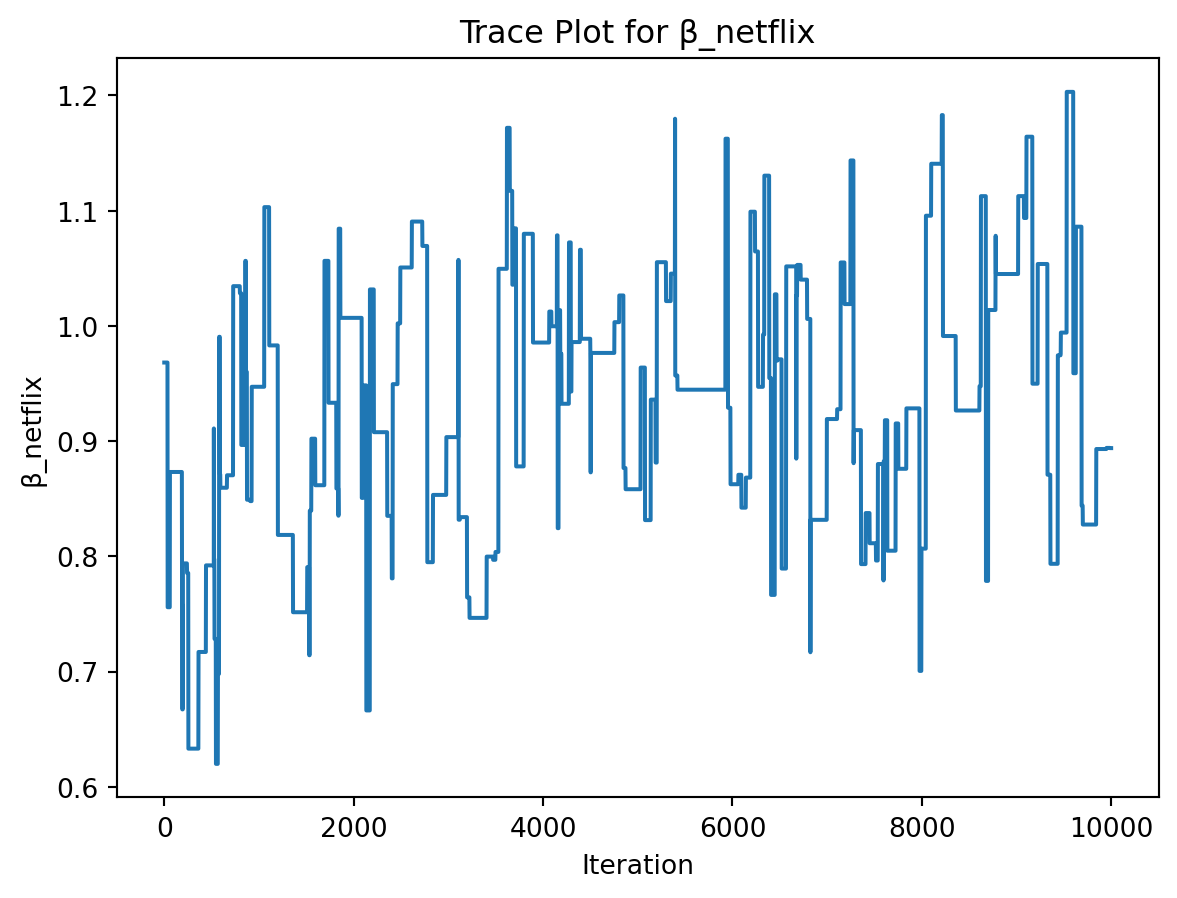
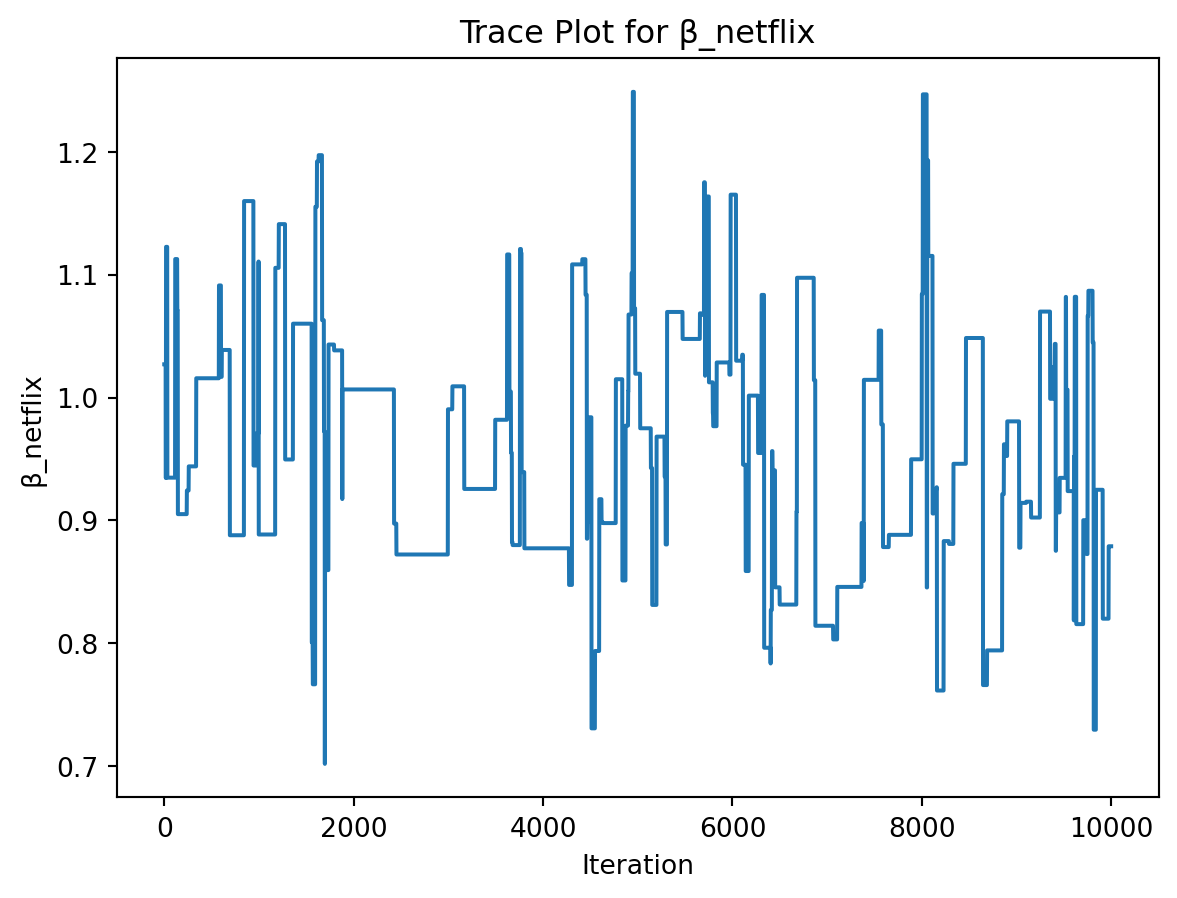
HW3-6

diff --git a/docs/blog/HW1/index.html b/docs/blog/HW1/index.html
@@ -214,7 +214,7 @@ pre > code.sourceCode > span > a:first-child::before { text-decoration: underlin
 <h2 class="anchored" data-anchor-id="data">Data</h2>
 <section id="description" class="level3">
 <h3 class="anchored" data-anchor-id="description">Description</h3>
-<div id="1ae64f3a" class="cell" data-execution_count="1">
+<div id="15046f01" class="cell" data-execution_count="1">
 <div class="sourceCode cell-code" id="cb1"><pre class="sourceCode python code-with-copy"><code class="sourceCode python"><span id="cb1-1"><a href="#cb1-1" aria-hidden="true" tabindex="-1"></a><span class="im">import</span> pandas <span class="im">as</span> pd</span>
 <span id="cb1-2"><a href="#cb1-2" aria-hidden="true" tabindex="-1"></a></span>
 <span id="cb1-3"><a href="#cb1-3" aria-hidden="true" tabindex="-1"></a>df <span class="op">=</span> pd.read_stata(<span class="st">"karlan_list_2007.dta"</span>)</span>
@@ -579,7 +579,7 @@ Variable Definitions
 <section id="balance-test" class="level3">
 <h3 class="anchored" data-anchor-id="balance-test">Balance Test</h3>
 <p>As an ad hoc test of the randomization mechanism, I provide a series of tests that compare aspects of the treatment and control groups to assess whether they are statistically significantly different from one another.</p>
-<div id="4c262358" class="cell" data-execution_count="2">
+<div id="362a9b1d" class="cell" data-execution_count="2">
 <div class="sourceCode cell-code" id="cb3"><pre class="sourceCode python code-with-copy"><code class="sourceCode python"><span id="cb3-1"><a href="#cb3-1" aria-hidden="true" tabindex="-1"></a><span class="im">import</span> pandas <span class="im">as</span> pd</span>
 <span id="cb3-2"><a href="#cb3-2" aria-hidden="true" tabindex="-1"></a><span class="im">import</span> numpy <span class="im">as</span> np</span>
 <span id="cb3-3"><a href="#cb3-3" aria-hidden="true" tabindex="-1"></a><span class="im">from</span> scipy <span class="im">import</span> stats</span>
@@ -640,7 +640,7 @@ Regression: coef = -0.058, p = 0.270</code></pre>
 <section id="charitable-contribution-made" class="level3">
 <h3 class="anchored" data-anchor-id="charitable-contribution-made">Charitable Contribution Made</h3>
 <p>First, I analyze whether matched donations lead to an increased response rate of making a donation.</p>
-<div id="987b3404" class="cell" data-execution_count="3">
+<div id="6338e11d" class="cell" data-execution_count="3">
 <div class="sourceCode cell-code" id="cb5"><pre class="sourceCode python code-with-copy"><code class="sourceCode python"><span id="cb5-1"><a href="#cb5-1" aria-hidden="true" tabindex="-1"></a><span class="im">import</span> matplotlib.pyplot <span class="im">as</span> plt</span>
 <span id="cb5-2"><a href="#cb5-2" aria-hidden="true" tabindex="-1"></a></span>
 <span id="cb5-3"><a href="#cb5-3" aria-hidden="true" tabindex="-1"></a><span class="co"># Calculate donation rates by group</span></span>
@@ -662,7 +662,7 @@ Regression: coef = -0.058, p = 0.270</code></pre>
 </div>
 <p>Above is the proportion of people who donated in control and treatment groups.</p>
 <p>Next, I run a t-test and a bivariate linear regression between the treatment and control groups on the binary outcome of whether any charitable donation was made.</p>
-<div id="2cb8f6dd" class="cell" data-execution_count="4">
+<div id="3bec2cd7" class="cell" data-execution_count="4">
 <div class="sourceCode cell-code" id="cb6"><pre class="sourceCode python code-with-copy"><code class="sourceCode python"><span id="cb6-1"><a href="#cb6-1" aria-hidden="true" tabindex="-1"></a><span class="im">import</span> numpy <span class="im">as</span> np</span>
 <span id="cb6-2"><a href="#cb6-2" aria-hidden="true" tabindex="-1"></a><span class="im">import</span> statsmodels.api <span class="im">as</span> sm</span>
 <span id="cb6-3"><a href="#cb6-3" aria-hidden="true" tabindex="-1"></a><span class="im">from</span> scipy <span class="im">import</span> stats</span>
@@ -694,7 +694,7 @@ Regression: coef = 0.004, p = 0.0019</code></pre>
 <p>Both the t-test and regression show whether the treatment group is more likely to donate than the control group.</p>
 <p>The p-value is small(&lt;0.01), which means the difference is statistically significant: the matching grant treatment increases the likelihood of giving. This suggests that people are more likely to donate when their gift is matched, supporting the idea that matching grants motivate charitable behavior.</p>
 <p>Then, I ran a probit regression where the outcome variable is whether any charitable donation was made and the explanatory variable is assignment to treatment or control.</p>
-<div id="570afa94" class="cell" data-execution_count="5">
+<div id="1e65bf77" class="cell" data-execution_count="5">
 <div class="sourceCode cell-code" id="cb8"><pre class="sourceCode python code-with-copy"><code class="sourceCode python"><span id="cb8-1"><a href="#cb8-1" aria-hidden="true" tabindex="-1"></a>df_clean <span class="op">=</span> df[[<span class="st">'gave'</span>, <span class="st">'treatment'</span>]].dropna()</span>
 <span id="cb8-2"><a href="#cb8-2" aria-hidden="true" tabindex="-1"></a></span>
 <span id="cb8-3"><a href="#cb8-3" aria-hidden="true" tabindex="-1"></a>X <span class="op">=</span> sm.add_constant(df_clean[<span class="st">'treatment'</span>])</span>
@@ -726,7 +726,7 @@ treatment      0.0043      0.001      3.104      0.002       0.002       0.007
 <h3 class="anchored" data-anchor-id="differences-between-match-rates">Differences between Match Rates</h3>
 <p>Next, I assess the effectiveness of different sizes of matched donations on the response rate.</p>
 <p>First, I used a series of t-tests to test whether the size of the match ratio has an effect on whether people donate or not between every two sizes (1:1 vs 2:1, 2:1 vs 3:1, 1:1 vs 3:1).</p>
-<div id="d0fbc2f5" class="cell" data-execution_count="6">
+<div id="5be41849" class="cell" data-execution_count="6">
 <div class="sourceCode cell-code" id="cb10"><pre class="sourceCode python code-with-copy"><code class="sourceCode python"><span id="cb10-1"><a href="#cb10-1" aria-hidden="true" tabindex="-1"></a>df_ratio <span class="op">=</span> df[(df[<span class="st">'treatment'</span>] <span class="op">==</span> <span class="dv">1</span>) <span class="op">&amp;</span> (df[<span class="st">'ratio'</span>].notnull()) <span class="op">&amp;</span> (df[<span class="st">'gave'</span>].notnull())]</span>
 <span id="cb10-2"><a href="#cb10-2" aria-hidden="true" tabindex="-1"></a></span>
 <span id="cb10-3"><a href="#cb10-3" aria-hidden="true" tabindex="-1"></a><span class="co"># 1:1 vs 2:1</span></span>
@@ -752,7 +752,7 @@ treatment      0.0043      0.001      3.104      0.002       0.002       0.007
 <p>These t-tests shows that there is no statistically significant difference in donation rates between the match ratios.</p>
 <p>This supports the authors’ comment that “neither the match thresh- old nor the example amount had a meaningful influence on behavior.”</p>
 <p>Next, I assessed the same issue using a regression. I created the variable <code>ratio2</code>, and <code>ratio3</code>, and then regressed <code>gave</code> on them.</p>
-<div id="d9f2f4a0" class="cell" data-execution_count="7">
+<div id="af9e940d" class="cell" data-execution_count="7">
 <div class="sourceCode cell-code" id="cb12"><pre class="sourceCode python code-with-copy"><code class="sourceCode python"><span id="cb12-1"><a href="#cb12-1" aria-hidden="true" tabindex="-1"></a>df_ratio <span class="op">=</span> df[(df[<span class="st">'treatment'</span>] <span class="op">==</span> <span class="dv">1</span>) <span class="op">&amp;</span> (df[<span class="st">'ratio'</span>].isin([<span class="dv">1</span>,<span class="dv">2</span>,<span class="dv">3</span>])) <span class="op">&amp;</span> (df[<span class="st">'gave'</span>].notnull())]</span>
 <span id="cb12-2"><a href="#cb12-2" aria-hidden="true" tabindex="-1"></a></span>
 <span id="cb12-3"><a href="#cb12-3" aria-hidden="true" tabindex="-1"></a>df_ratio[<span class="st">'ratio2'</span>] <span class="op">=</span> (df_ratio[<span class="st">'ratio'</span>] <span class="op">==</span> <span class="dv">2</span>).astype(<span class="bu">int</span>)</span>
@@ -768,7 +768,7 @@ Dep. Variable:                   gave   R-squared:                       0.000
 Model:                            OLS   Adj. R-squared:                 -0.000
 Method:                 Least Squares   F-statistic:                    0.6454
 Date:                Sun, 25 May 2025   Prob (F-statistic):              0.524
-Time:                        08:13:51   Log-Likelihood:                 16688.
+Time:                        08:20:14   Log-Likelihood:                 16688.
 No. Observations:               33396   AIC:                        -3.337e+04
 Df Residuals:                   33393   BIC:                        -3.334e+04
 Df Model:                           2                                         
@@ -790,13 +790,13 @@ Notes:
 [1] Standard Errors assume that the covariance matrix of the errors is correctly specified.</code></pre>
 </div>
 <div class="cell-output cell-output-stderr">
-<pre><code>/var/folders/4l/zkt81q5j4xlbn6fjv2v8jj880000gn/T/ipykernel_58230/1592154894.py:3: SettingWithCopyWarning: 
+<pre><code>/var/folders/4l/zkt81q5j4xlbn6fjv2v8jj880000gn/T/ipykernel_59688/1592154894.py:3: SettingWithCopyWarning: 
 A value is trying to be set on a copy of a slice from a DataFrame.
 Try using .loc[row_indexer,col_indexer] = value instead
 
 See the caveats in the documentation: https://pandas.pydata.org/pandas-docs/stable/user_guide/indexing.html#returning-a-view-versus-a-copy
   df_ratio['ratio2'] = (df_ratio['ratio'] == 2).astype(int)
-/var/folders/4l/zkt81q5j4xlbn6fjv2v8jj880000gn/T/ipykernel_58230/1592154894.py:4: SettingWithCopyWarning: 
+/var/folders/4l/zkt81q5j4xlbn6fjv2v8jj880000gn/T/ipykernel_59688/1592154894.py:4: SettingWithCopyWarning: 
 A value is trying to be set on a copy of a slice from a DataFrame.
 Try using .loc[row_indexer,col_indexer] = value instead
 
@@ -807,7 +807,7 @@ See the caveats in the documentation: https://pandas.pydata.org/pandas-docs/stab
 <p>The coefficients on the dummy variables for match ratios show the difference in donation probability compared to the 1:1 match (the omitted group). The coefficients are small and not statistically significant, which means increasing the match ratio does not meaningfully affect the likelihood of donating.</p>
 <p>This matches the earlier t-test results and supports the paper’s finding.</p>
 <p>I also calculated the response rate difference between the 1:1 and 2:1 match ratios and the 2:1 and 3:1 ratios in two ways – directly from the data, and by computing the differences in the fitted coefficients of the previous regression.</p>
-<div id="f66e734e" class="cell" data-execution_count="8">
+<div id="71c1b358" class="cell" data-execution_count="8">
 <div class="sourceCode cell-code" id="cb15"><pre class="sourceCode python code-with-copy"><code class="sourceCode python"><span id="cb15-1"><a href="#cb15-1" aria-hidden="true" tabindex="-1"></a>gave_1to1 <span class="op">=</span> df_ratio[df_ratio[<span class="st">'ratio'</span>] <span class="op">==</span> <span class="dv">1</span>][<span class="st">'gave'</span>]</span>
 <span id="cb15-2"><a href="#cb15-2" aria-hidden="true" tabindex="-1"></a>gave_2to1 <span class="op">=</span> df_ratio[df_ratio[<span class="st">'ratio'</span>] <span class="op">==</span> <span class="dv">2</span>][<span class="st">'gave'</span>]</span>
 <span id="cb15-3"><a href="#cb15-3" aria-hidden="true" tabindex="-1"></a>gave_3to1 <span class="op">=</span> df_ratio[df_ratio[<span class="st">'ratio'</span>] <span class="op">==</span> <span class="dv">3</span>][<span class="st">'gave'</span>]</span>
@@ -840,7 +840,7 @@ From regression: Response rate difference (3:1 - 2:1): 0.0001</code></pre>
 <h3 class="anchored" data-anchor-id="size-of-charitable-contribution">Size of Charitable Contribution</h3>
 <p>In this subsection, I analyze the effect of the size of matched donation on the size of the charitable contribution.</p>
 <p>I first examined whether the treatment group gives a different average donation amount than the control group by t-test.</p>
-<div id="79cde860" class="cell" data-execution_count="9">
+<div id="569cab3a" class="cell" data-execution_count="9">
 <div class="sourceCode cell-code" id="cb17"><pre class="sourceCode python code-with-copy"><code class="sourceCode python"><span id="cb17-1"><a href="#cb17-1" aria-hidden="true" tabindex="-1"></a>df_amt <span class="op">=</span> df[[<span class="st">'amount'</span>, <span class="st">'treatment'</span>]].dropna()</span>
 <span id="cb17-2"><a href="#cb17-2" aria-hidden="true" tabindex="-1"></a></span>
 <span id="cb17-3"><a href="#cb17-3" aria-hidden="true" tabindex="-1"></a>amount_treat <span class="op">=</span> df_amt[df_amt[<span class="st">'treatment'</span>] <span class="op">==</span> <span class="dv">1</span>][<span class="st">'amount'</span>]</span>
@@ -853,7 +853,7 @@ From regression: Response rate difference (3:1 - 2:1): 0.0001</code></pre>
 </div>
 <p>The p-value is large (&gt;0.05), it means there is no statistically significant difference in average donation amount between groups. This suggests that while matching grants may increase the likelihood of giving, they do not necessarily increase the average amount donated.</p>
 <p>Then, I limited the data to just people who made a donation and repeat the previous analysis. This regression allows me to analyze how much respondents donate conditional on donating some positive amount.</p>
-<div id="6f2d1faf" class="cell" data-execution_count="10">
+<div id="68f0a215" class="cell" data-execution_count="10">
 <div class="sourceCode cell-code" id="cb19"><pre class="sourceCode python code-with-copy"><code class="sourceCode python"><span id="cb19-1"><a href="#cb19-1" aria-hidden="true" tabindex="-1"></a>df_positive <span class="op">=</span> df[(df[<span class="st">'gave'</span>] <span class="op">==</span> <span class="dv">1</span>) <span class="op">&amp;</span> (df[<span class="st">'treatment'</span>].notnull())].copy()</span>
 <span id="cb19-2"><a href="#cb19-2" aria-hidden="true" tabindex="-1"></a></span>
 <span id="cb19-3"><a href="#cb19-3" aria-hidden="true" tabindex="-1"></a>X <span class="op">=</span> sm.add_constant(df_positive[<span class="st">'treatment'</span>])</span>
@@ -867,7 +867,7 @@ Dep. Variable:                 amount   R-squared:                       0.000
 Model:                            OLS   Adj. R-squared:                 -0.001
 Method:                 Least Squares   F-statistic:                    0.3374
 Date:                Sun, 25 May 2025   Prob (F-statistic):              0.561
-Time:                        08:13:51   Log-Likelihood:                -5326.8
+Time:                        08:20:14   Log-Likelihood:                -5326.8
 No. Observations:                1034   AIC:                         1.066e+04
 Df Residuals:                    1032   BIC:                         1.067e+04
 Df Model:                           1                                         
@@ -891,7 +891,7 @@ Notes:
 <p>This analysis examines whether, among those who donated, the average donation amount differs between treatment and control groups.</p>
 <p>The treatment coefficient is not statistically significant, which suggests that matching grants do not increase the average donation size among donors—only the likelihood of giving. Because treatment was randomly assigned, the coefficient can be interpreted causally: it estimates the effect of being offered a match on the average donation amount, conditional on donating.</p>
 <p>Here I make two plots to show the distribution of the donation amounts for people who donated in treatment and control groups. This also support the conclusion that matching grants do not increase the average donation size among donors—only the likelihood of giving.</p>
-<div id="cedbce3b" class="cell" data-execution_count="11">
+<div id="555b2103" class="cell" data-execution_count="11">
 <div class="sourceCode cell-code" id="cb21"><pre class="sourceCode python code-with-copy"><code class="sourceCode python"><span id="cb21-1"><a href="#cb21-1" aria-hidden="true" tabindex="-1"></a>df_positive <span class="op">=</span> df[(df[<span class="st">'amount'</span>] <span class="op">&gt;</span> <span class="dv">0</span>) <span class="op">&amp;</span> (df[<span class="st">'treatment'</span>].notnull())]</span>
 <span id="cb21-2"><a href="#cb21-2" aria-hidden="true" tabindex="-1"></a></span>
 <span id="cb21-3"><a href="#cb21-3" aria-hidden="true" tabindex="-1"></a>amount_treat <span class="op">=</span> df_positive[df_positive[<span class="st">'treatment'</span>] <span class="op">==</span> <span class="dv">1</span>][<span class="st">'amount'</span>]</span>
@@ -937,7 +937,7 @@ Notes:
 <section id="law-of-large-numbers" class="level3">
 <h3 class="anchored" data-anchor-id="law-of-large-numbers">Law of Large Numbers</h3>
 <p>To illustrate Law of Large Numbers, I simulated 100,00 draws from the control distribution and 10,000 draws from the treatment distribution. I then calculated a vector of 10,000 differences, and then plot the cumulative average of that vector of differences.</p>
-<div id="efa1bcba" class="cell" data-execution_count="12">
+<div id="b74771ce" class="cell" data-execution_count="12">
 <div class="sourceCode cell-code" id="cb22"><pre class="sourceCode python code-with-copy"><code class="sourceCode python"><span id="cb22-1"><a href="#cb22-1" aria-hidden="true" tabindex="-1"></a>np.random.seed(<span class="dv">42</span>)</span>
 <span id="cb22-2"><a href="#cb22-2" aria-hidden="true" tabindex="-1"></a></span>
 <span id="cb22-3"><a href="#cb22-3" aria-hidden="true" tabindex="-1"></a></span>
@@ -976,7 +976,7 @@ Notes:
 <section id="central-limit-theorem" class="level3">
 <h3 class="anchored" data-anchor-id="central-limit-theorem">Central Limit Theorem</h3>
 <p>To illustrate Central Limit Theorem, I made 4 histograms at sample sizes 50, 200, 500, and 1000. For each sample size, e.g.&nbsp;50, I took 50 draws from each of the control and treatment distributions, and calculate the average difference between those draws. Then repeat that process 999 more times so that I had 1000 averages.</p>
-<div id="117cdd49" class="cell" data-execution_count="13">
+<div id="66689936" class="cell" data-execution_count="13">
 <div class="sourceCode cell-code" id="cb23"><pre class="sourceCode python code-with-copy"><code class="sourceCode python"><span id="cb23-1"><a href="#cb23-1" aria-hidden="true" tabindex="-1"></a>np.random.seed(<span class="dv">42</span>)</span>
 <span id="cb23-2"><a href="#cb23-2" aria-hidden="true" tabindex="-1"></a></span>
 <span id="cb23-3"><a href="#cb23-3" aria-hidden="true" tabindex="-1"></a>p_control <span class="op">=</span> <span class="fl">0.018</span></span>

diff --git a/docs/blog/HW2/index.html b/docs/blog/HW2/index.html
@@ -244,7 +244,7 @@ window.Quarto = {
 <p><em>todo: Read in data.</em></p>
 <p><em>todo: Compare histograms and means of number of patents by customer status. What do you observe?</em></p>
 <p>We first read in the data and draw histograms for number of patents by customer status. We observed the distribution is more right skewed, and customer of Blueprinty seem to have more patents than non-customers in average.</p>
-<div id="8c48a41d" class="cell" data-execution_count="1">
+<div id="0582a8ba" class="cell" data-execution_count="1">
 <div class="sourceCode cell-code" id="cb1"><pre class="sourceCode python code-with-copy"><code class="sourceCode python"><span id="cb1-1"><a href="#cb1-1" aria-hidden="true" tabindex="-1"></a><span class="im">import</span> pandas <span class="im">as</span> pd</span>
 <span id="cb1-2"><a href="#cb1-2" aria-hidden="true" tabindex="-1"></a><span class="im">import</span> matplotlib.pyplot <span class="im">as</span> plt</span>
 <span id="cb1-3"><a href="#cb1-3" aria-hidden="true" tabindex="-1"></a></span>
@@ -285,7 +285,7 @@ Name: patents, dtype: float64</code></pre>
 </div>
 <p>Blueprinty customers are not selected at random. It may be important to account for systematic differences in the age and regional location of customers vs non-customers.</p>
 <p>Thus, we also look into the region and age distribution by customer status.</p>
-<div id="41b88ddb" class="cell" data-execution_count="2">
+<div id="fc408fd3" class="cell" data-execution_count="2">
 <div class="sourceCode cell-code" id="cb3"><pre class="sourceCode python code-with-copy"><code class="sourceCode python"><span id="cb3-1"><a href="#cb3-1" aria-hidden="true" tabindex="-1"></a><span class="im">import</span> seaborn <span class="im">as</span> sns</span>
 <span id="cb3-2"><a href="#cb3-2" aria-hidden="true" tabindex="-1"></a><span class="im">import</span> matplotlib.pyplot <span class="im">as</span> plt</span>
 <span id="cb3-3"><a href="#cb3-3" aria-hidden="true" tabindex="-1"></a></span>
@@ -358,7 +358,7 @@ iscustomer
 <p><span class="math display">\[
 P(Y_i = y_i) = \frac{e^{-\lambda} \lambda^{y_i}}{y_i!}
 \]</span></p>
-<div id="3ffcc65a" class="cell" data-execution_count="3">
+<div id="67fcb616" class="cell" data-execution_count="3">
 <div class="sourceCode cell-code" id="cb6"><pre class="sourceCode python code-with-copy"><code class="sourceCode python"><span id="cb6-1"><a href="#cb6-1" aria-hidden="true" tabindex="-1"></a><span class="im">import</span> numpy <span class="im">as</span> np</span>
 <span id="cb6-2"><a href="#cb6-2" aria-hidden="true" tabindex="-1"></a><span class="im">from</span> scipy.special <span class="im">import</span> gammaln  <span class="co"># For log(y!)</span></span>
 <span id="cb6-3"><a href="#cb6-3" aria-hidden="true" tabindex="-1"></a></span>
@@ -368,7 +368,7 @@ P(Y_i = y_i) = \frac{e^{-\lambda} \lambda^{y_i}}{y_i!}
 <span id="cb6-7"><a href="#cb6-7" aria-hidden="true" tabindex="-1"></a>    <span class="cf">return</span> np.<span class="bu">sum</span>(<span class="op">-</span>lmbda <span class="op">+</span> Y <span class="op">*</span> np.log(lmbda) <span class="op">-</span> gammaln(Y <span class="op">+</span> <span class="dv">1</span>))</span></code><button title="Copy to Clipboard" class="code-copy-button"><i class="bi"></i></button></pre></div>
 </div>
 <p>Next, we use the function to plot lambda on the horizontal axis and the likelihood (or log-likelihood) on the vertical axis for a range of lambdas.</p>
-<div id="7f8d7441" class="cell" data-execution_count="4">
+<div id="89962fd4" class="cell" data-execution_count="4">
 <div class="sourceCode cell-code" id="cb7"><pre class="sourceCode python code-with-copy"><code class="sourceCode python"><span id="cb7-1"><a href="#cb7-1" aria-hidden="true" tabindex="-1"></a>Y <span class="op">=</span> df[<span class="st">'patents'</span>]</span>
 <span id="cb7-2"><a href="#cb7-2" aria-hidden="true" tabindex="-1"></a></span>
 <span id="cb7-3"><a href="#cb7-3" aria-hidden="true" tabindex="-1"></a><span class="co"># Define a range of lambda values</span></span>
@@ -413,7 +413,7 @@ P(Y_i = y_i) = \frac{e^{-\lambda} \lambda^{y_i}}{y_i!}
 \]</span></p>
 <p>This result <strong>feels right</strong>, because the <strong>mean of a Poisson distribution is <span class="math inline">\(\lambda\)</span></strong>, and we’re estimating it using the <strong>sample mean</strong>.</p>
 <p>Now we find the MLE by optimizing my likelihood function.</p>
-<div id="1b919636" class="cell" data-execution_count="5">
+<div id="51dab95a" class="cell" data-execution_count="5">
 <div class="sourceCode cell-code" id="cb8"><pre class="sourceCode python code-with-copy"><code class="sourceCode python"><span id="cb8-1"><a href="#cb8-1" aria-hidden="true" tabindex="-1"></a><span class="im">from</span> scipy.optimize <span class="im">import</span> minimize_scalar</span>
 <span id="cb8-2"><a href="#cb8-2" aria-hidden="true" tabindex="-1"></a></span>
 <span id="cb8-3"><a href="#cb8-3" aria-hidden="true" tabindex="-1"></a><span class="co"># Objective function: negative log-likelihood (for minimization)</span></span>
@@ -434,7 +434,7 @@ P(Y_i = y_i) = \frac{e^{-\lambda} \lambda^{y_i}}{y_i!}
 <h3 class="anchored" data-anchor-id="estimation-of-poisson-regression-model">Estimation of Poisson Regression Model</h3>
 <p>Next, we extend our simple Poisson model to a Poisson Regression Model such that <span class="math inline">\(Y_i = \text{Poisson}(\lambda_i)\)</span> where <span class="math inline">\(\lambda_i = \exp(X_i'\beta)\)</span>. The interpretation is that the success rate of patent awards is not constant across all firms (<span class="math inline">\(\lambda\)</span>) but rather is a function of firm characteristics <span class="math inline">\(X_i\)</span>. Specifically, we will use the covariates age, age squared, region, and whether the firm is a customer of Blueprinty.</p>
 <p>Now we create a new log-likelihood function for Poisson model with an additional argument to take in a covariate matrix X. We will use it to find the MLE vector and the Hessian of the Poisson model with covariates. Then we will use the Hessian to find standard errors of the beta parameter estimates and present a table of coefficients and standard errors.</p>
-<div id="4d4c9e44" class="cell" data-execution_count="6">
+<div id="4fe9b00d" class="cell" data-execution_count="6">
 <div class="sourceCode cell-code" id="cb10"><pre class="sourceCode python code-with-copy"><code class="sourceCode python"><span id="cb10-1"><a href="#cb10-1" aria-hidden="true" tabindex="-1"></a><span class="im">from</span> scipy.special <span class="im">import</span> gammaln</span>
 <span id="cb10-2"><a href="#cb10-2" aria-hidden="true" tabindex="-1"></a><span class="im">from</span> scipy.optimize <span class="im">import</span> minimize</span>
 <span id="cb10-3"><a href="#cb10-3" aria-hidden="true" tabindex="-1"></a><span class="im">import</span> math</span>
@@ -549,7 +549,7 @@ P(Y_i = y_i) = \frac{e^{-\lambda} \lambda^{y_i}}{y_i!}
 </div>
 </div>
 <p>Now we check our results using Python sm.GLM() function.</p>
-<div id="1b42c19f" class="cell" data-execution_count="7">
+<div id="fdaeab55" class="cell" data-execution_count="7">
 <div class="sourceCode cell-code" id="cb11"><pre class="sourceCode python code-with-copy"><code class="sourceCode python"><span id="cb11-1"><a href="#cb11-1" aria-hidden="true" tabindex="-1"></a><span class="im">import</span> statsmodels.api <span class="im">as</span> sm</span>
 <span id="cb11-2"><a href="#cb11-2" aria-hidden="true" tabindex="-1"></a></span>
 <span id="cb11-3"><a href="#cb11-3" aria-hidden="true" tabindex="-1"></a>X_numeric <span class="op">=</span> X.astype(<span class="bu">float</span>)</span>
@@ -575,7 +575,7 @@ Model Family:                 Poisson   Df Model:                            7
 Link Function:                    Log   Scale:                          1.0000
 Method:                          IRLS   Log-Likelihood:                -3258.1
 Date:                Sun, 25 May 2025   Deviance:                       2143.3
-Time:                        08:13:38   Pearson chi2:                 2.07e+03
+Time:                        08:20:01   Pearson chi2:                 2.07e+03
 No. Iterations:                     5   Pseudo R-squ. (CS):             0.1360
 Covariance Type:            nonrobust                                         
 ===============================================================================
@@ -603,7 +603,7 @@ Southwest    0.050576  0.047198</code></pre>
 </div>
 <p>From the result above, we can see age has a strong nonlinear relationship with patent counts: the negative age squared term and the positive age term shows that age increases the expected log count until 25, and then make it decline afterwards. Blueprinty customers produce about 23 percent more patents than non-customers (exp(0.208)≈1.23, p &lt; .001), given all other conditions equal. Once age and customer status are accounted for, none of the regions—Northeast, Northwest, South, or Southwest—differs significantly from the Midwest baseline.</p>
 <p>Now we want to conclude on the effect of Blueprinty’s software on patent success. Because the beta coefficients are not directly interpretable, we create two fake datasets: X_0 and X_1 where X_0 is the X data but with iscustomer=0 for every observation and X_1 is the X data but with iscustomer=1 for every observation. Then, we use X_0 and your fitted model to get the vector of predicted number of patents (y_pred_0) for every firm in the dataset, and use X_1 to get Y_pred_1 for every firm. Then subtract y_pred_1 minus y_pred_0 and take the average of that vector of differences._</p>
-<div id="e5dab331" class="cell" data-execution_count="8">
+<div id="3622c8dc" class="cell" data-execution_count="8">
 <div class="sourceCode cell-code" id="cb13"><pre class="sourceCode python code-with-copy"><code class="sourceCode python"><span id="cb13-1"><a href="#cb13-1" aria-hidden="true" tabindex="-1"></a><span class="kw">def</span> build_design_matrix(df, iscustomer<span class="op">=</span><span class="va">None</span>, region_dummies<span class="op">=</span><span class="va">None</span>):</span>
 <span id="cb13-2"><a href="#cb13-2" aria-hidden="true" tabindex="-1"></a>    X <span class="op">=</span> pd.DataFrame({</span>
 <span id="cb13-3"><a href="#cb13-3" aria-hidden="true" tabindex="-1"></a>        <span class="st">'intercept'</span>: <span class="fl">1.0</span>,</span>
@@ -677,7 +677,7 @@ Variable Definitions
 </div>
 </div>
 </div>
-<div id="2a7a6276" class="cell" data-execution_count="9">
+<div id="e533b674" class="cell" data-execution_count="9">
 <div class="sourceCode cell-code" id="cb16"><pre class="sourceCode python code-with-copy"><code class="sourceCode python"><span id="cb16-1"><a href="#cb16-1" aria-hidden="true" tabindex="-1"></a>df <span class="op">=</span> pd.read_csv(<span class="st">"airbnb.csv"</span>)</span>
 <span id="cb16-2"><a href="#cb16-2" aria-hidden="true" tabindex="-1"></a>df.describe(include<span class="op">=</span><span class="st">'all'</span>)</span></code><button title="Copy to Clipboard" class="code-copy-button"><i class="bi"></i></button></pre></div>
 <div class="cell-output cell-output-display" data-execution_count="9">
@@ -898,7 +898,7 @@ Variable Definitions
 </div>
 </div>
 </div>
-<div id="78bf433f" class="cell" data-execution_count="10">
+<div id="eff3acd5" class="cell" data-execution_count="10">
 <div class="sourceCode cell-code" id="cb17"><pre class="sourceCode python code-with-copy"><code class="sourceCode python"><span id="cb17-1"><a href="#cb17-1" aria-hidden="true" tabindex="-1"></a>df.isna().<span class="bu">sum</span>()</span></code><button title="Copy to Clipboard" class="code-copy-button"><i class="bi"></i></button></pre></div>
 <div class="cell-output cell-output-display" data-execution_count="10">
 <pre><code>Unnamed: 0                       0
@@ -918,7 +918,7 @@ instant_bookable                 0
 dtype: int64</code></pre>
 </div>
 </div>
-<div id="898fd9b3" class="cell" data-execution_count="11">
+<div id="0dae5f46" class="cell" data-execution_count="11">
 <div class="sourceCode cell-code" id="cb19"><pre class="sourceCode python code-with-copy"><code class="sourceCode python"><span id="cb19-1"><a href="#cb19-1" aria-hidden="true" tabindex="-1"></a><span class="co"># EDA</span></span>
 <span id="cb19-2"><a href="#cb19-2" aria-hidden="true" tabindex="-1"></a>plt.figure()<span class="op">;</span> plt.hist(df[<span class="st">'number_of_reviews'</span>], bins<span class="op">=</span><span class="dv">50</span>)<span class="op">;</span> plt.title(<span class="st">'Distribution of Number of Reviews'</span>)<span class="op">;</span> plt.xlabel(<span class="st">'Number of Reviews'</span>)<span class="op">;</span> plt.ylabel(<span class="st">'Frequency'</span>)<span class="op">;</span> plt.show()</span>
 <span id="cb19-3"><a href="#cb19-3" aria-hidden="true" tabindex="-1"></a>plt.figure()<span class="op">;</span> plt.scatter(df[<span class="st">'price'</span>], df[<span class="st">'number_of_reviews'</span>], alpha<span class="op">=</span><span class="fl">0.3</span>)<span class="op">;</span> plt.title(<span class="st">'Price vs Number of Reviews'</span>)<span class="op">;</span> plt.xlabel(<span class="st">'Price'</span>)<span class="op">;</span> plt.ylabel(<span class="st">'Number of Reviews'</span>)<span class="op">;</span> plt.xlim(<span class="dv">0</span>, <span class="dv">1000</span>)<span class="op">;</span> plt.show()</span>
@@ -962,7 +962,7 @@ bedrooms                    0.024425  0.006445   0.408714  1.000000  0.275643
 price                      -0.014181  0.015026   0.252303  0.275643  1.000000</code></pre>
 </div>
 </div>
-<div id="360c664f" class="cell" data-execution_count="12">
+<div id="d5f5eea4" class="cell" data-execution_count="12">
 <div class="sourceCode cell-code" id="cb21"><pre class="sourceCode python code-with-copy"><code class="sourceCode python"><span id="cb21-1"><a href="#cb21-1" aria-hidden="true" tabindex="-1"></a><span class="im">import</span> statsmodels.formula.api <span class="im">as</span> smf</span>
 <span id="cb21-2"><a href="#cb21-2" aria-hidden="true" tabindex="-1"></a><span class="co"># Poisson regression</span></span>
 <span id="cb21-3"><a href="#cb21-3" aria-hidden="true" tabindex="-1"></a>poisson_model <span class="op">=</span> smf.glm(</span>
@@ -979,7 +979,7 @@ Model Family:                 Poisson   Df Model:                            7
 Link Function:                    Log   Scale:                          1.0000
 Method:                          IRLS   Log-Likelihood:            -7.0857e+05
 Date:                Sun, 25 May 2025   Deviance:                   1.2940e+06
-Time:                        08:13:39   Pearson chi2:                 2.08e+06
+Time:                        08:20:02   Pearson chi2:                 2.08e+06
 No. Iterations:                    11   Pseudo R-squ. (CS):             0.5681
 Covariance Type:            nonrobust                                         
 ================================================================================================

diff --git a/docs/blog/HW3/index.html b/docs/blog/HW3/index.html
@@ -262,7 +262,7 @@ u_{ij} = (1 \times Netflix_j) + (0.5 \times Prime_j) + (-0.8*Ads_j) - 0.1\times 
 <section id="preparing-the-data-for-estimation" class="level2">
 <h2 class="anchored" data-anchor-id="preparing-the-data-for-estimation">3. Preparing the Data for Estimation</h2>
 <p>Here we prepare the data for estimation. We need to keep track of 3 dimensions (consumer <span class="math inline">\(i\)</span>, covariate <span class="math inline">\(k\)</span>, and product <span class="math inline">\(j\)</span>) instead of the typical 2 dimensions for cross-sectional regression models (consumer <span class="math inline">\(i\)</span> and covariate <span class="math inline">\(k\)</span>). In addition, we need to convert the categorical variables for brand and ads into binary variables.</p>
-<div id="4f5baea9" class="cell" data-execution_count="1">
+<div id="0c369170" class="cell" data-execution_count="1">
 <div class="sourceCode cell-code" id="cb1"><pre class="sourceCode python code-with-copy"><code class="sourceCode python"><span id="cb1-1"><a href="#cb1-1" aria-hidden="true" tabindex="-1"></a><span class="im">import</span> pandas <span class="im">as</span> pd</span>
 <span id="cb1-2"><a href="#cb1-2" aria-hidden="true" tabindex="-1"></a></span>
 <span id="cb1-3"><a href="#cb1-3" aria-hidden="true" tabindex="-1"></a>df <span class="op">=</span> pd.read_csv(<span class="st">'conjoint_data.csv'</span>)</span>
@@ -460,7 +460,7 @@ u_{ij} = (1 \times Netflix_j) + (0.5 \times Prime_j) + (-0.8*Ads_j) - 0.1\times 
 <section id="estimation-via-maximum-likelihood" class="level2">
 <h2 class="anchored" data-anchor-id="estimation-via-maximum-likelihood">4. Estimation via Maximum Likelihood</h2>
 <p>Now we use <code>scipy.optimize()</code> in Python to find the MLEs for the 4 parameters (<span class="math inline">\(\beta_\text{netflix}\)</span>, <span class="math inline">\(\beta_\text{prime}\)</span>, <span class="math inline">\(\beta_\text{ads}\)</span>, <span class="math inline">\(\beta_\text{price}\)</span>), as well as their standard errors (from the Hessian). For each parameter we also construct a 95% confidence interval.</p>
-<div id="97c0f0c5" class="cell" data-execution_count="2">
+<div id="66aa074f" class="cell" data-execution_count="2">
 <div class="sourceCode cell-code" id="cb2"><pre class="sourceCode python code-with-copy"><code class="sourceCode python"><span id="cb2-1"><a href="#cb2-1" aria-hidden="true" tabindex="-1"></a><span class="im">import</span> numpy <span class="im">as</span> np</span>
 <span id="cb2-2"><a href="#cb2-2" aria-hidden="true" tabindex="-1"></a><span class="im">from</span> scipy.optimize <span class="im">import</span> minimize</span>
 <span id="cb2-3"><a href="#cb2-3" aria-hidden="true" tabindex="-1"></a></span>
@@ -509,7 +509,7 @@ beta_netflix:  0.9412 (SE = 0.1143), 95% CI = [0.7173, 1.1651]
 <h2 class="anchored" data-anchor-id="estimation-via-bayesian-methods">5. Estimation via Bayesian Methods</h2>
 <p>Now we try to estimate via a metropolis-hasting MCMC sampler of the posterior distribution. We take 11,000 steps and throw away the first 1,000, retaining the subsequent 10,000. For the betas on the binary variables, we use N(0,5), while for the price beta, we use N(0,1).</p>
 <p>A trace plot and a histogram of posterior for beta_netflix are also shown below to demonstrate the simulation result.</p>
-<div id="93e8d35e" class="cell" data-execution_count="3">
+<div id="f1920fa6" class="cell" data-execution_count="3">
 <div class="sourceCode cell-code" id="cb4"><pre class="sourceCode python code-with-copy"><code class="sourceCode python"><span id="cb4-1"><a href="#cb4-1" aria-hidden="true" tabindex="-1"></a><span class="co"># Log-likelihood function</span></span>
 <span id="cb4-2"><a href="#cb4-2" aria-hidden="true" tabindex="-1"></a><span class="kw">def</span> log_likelihood(params):</span>
 <span id="cb4-3"><a href="#cb4-3" aria-hidden="true" tabindex="-1"></a>    beta_N, beta_P, beta_ads, beta_price <span class="op">=</span> params</span>
@@ -610,31 +610,31 @@ beta_netflix:  0.9412 (SE = 0.1143), 95% CI = [0.7173, 1.1651]
 <tbody>
 <tr class="odd">
 <td data-quarto-table-cell-role="th">beta_netflix</td>
-<td>0.934235</td>
-<td>0.112623</td>
-<td>0.716985</td>
-<td>1.140732</td>
+<td>0.955276</td>
+<td>0.098409</td>
+<td>0.794319</td>
+<td>1.159769</td>
 </tr>
 <tr class="even">
 <td data-quarto-table-cell-role="th">beta_prime</td>
-<td>0.502163</td>
-<td>0.108455</td>
-<td>0.284626</td>
-<td>0.678891</td>
+<td>0.503116</td>
+<td>0.098345</td>
+<td>0.331999</td>
+<td>0.733702</td>
 </tr>
 <tr class="odd">
 <td data-quarto-table-cell-role="th">beta_ads</td>
-<td>-0.719028</td>
-<td>0.083336</td>
-<td>-0.861039</td>
-<td>-0.527342</td>
+<td>-0.734298</td>
+<td>0.084006</td>
+<td>-0.888835</td>
+<td>-0.555603</td>
 </tr>
 <tr class="even">
 <td data-quarto-table-cell-role="th">beta_price</td>
-<td>-0.098617</td>
-<td>0.006206</td>
-<td>-0.112478</td>
-<td>-0.086340</td>
+<td>-0.099993</td>
+<td>0.006181</td>
+<td>-0.111770</td>
+<td>-0.088554</td>
 </tr>
 </tbody>
 </table>
@@ -658,14 +658,14 @@ Even without knowing the “true” simulated parameters, the estimates make sen
 <li><p>Interpretation of <span class="math inline">\(\beta_\text{netflix}\)</span> &gt; <span class="math inline">\(\beta_\text{prime}\)</span><br>
 A larger $$ means a larger “slice” of the choice probability (holding other attributes equal). So respondents are, on average, more likely to pick Netflix over Prime if everything else (advertising, price) is the same.</p></li>
 <li><p>Negative Price Coefficient<br>
-A negative price coefficient means higher prices lower utility, which is exactly what economic theory predicts: as the cost of an alternative goes up, its attractiveness (and thus its choice probability) goes down. The magnitude (≈ –0.1) tells you that a one-dollar increase in price multiplies an alternative’s odds by exp(–0.1) ≈ 0.90, i.e.&nbsp;a roughly 10% drop in odds per dollar.</p></li>
+A negative price coefficient means higher prices lower utility, which is exactly what economic theory predicts: as the cost of an alternative goes up, its attractiveness (and thus its choice probability) goes down. The magnitude (≈ –0.1) tells that a one-dollar increase in price multiplies an alternative’s odds by exp(–0.1) ≈ 0.90, i.e.&nbsp;a roughly 10% drop in odds per dollar.</p></li>
 <li><p>How to Move to a Hierarchical Model<br>
-There are multiple steps we need to take if we want to move from a fixed-coefficients MNL to a hierarchical (random-parameters) model.<br>
-At simulation process, we would:<br>
+There are multiple steps we need to take if we want to move from a fixed-coefficients MNL to a hierarchical (random-parameters) model.</p>
+<p>At simulation process, we would:<br>
 • Specify hyper-parameters like a population mean vector and covariance matrix for betas<br>
 • Draw individual betas<br>
-• Generate choices conditional on <span class="math inline">\(\beta_\text{i}\)</span><br>
-At estimation process, we would:<br>
+• Generate choices conditional on <span class="math inline">\(\beta_\text{i}\)</span></p>
+<p>At estimation process, we would:<br>
 • Write down the integrated likelihood<br>
 <span class="math inline">\(L(\mu, \Sigma)=\prod_{i=1}^N \int\left[\prod_{t=1}^{T_i} P\left(y_{i t} \mid X_{i t}, \beta\right)\right] \phi(\beta \mid \mu, \Sigma) d \beta\)</span><br>
 • Approximate or sample the integrals with methods like MLE or MCMC<br>

diff --git a/docs/blog.html b/docs/blog.html
@@ -202,7 +202,7 @@ window.Quarto = {
 
 <div class="quarto-listing quarto-listing-container-grid" id="listing-listing">
 <div class="list grid quarto-listing-cols-3">
-<div class="g-col-1" data-index="0" data-listing-date-sort="1748415600000" data-listing-file-modified-sort="1748186007702" data-listing-date-modified-sort="NaN" data-listing-reading-time-sort="8" data-listing-word-count-sort="1550">
+<div class="g-col-1" data-index="0" data-listing-date-sort="1748415600000" data-listing-file-modified-sort="1748186390120" data-listing-date-modified-sort="NaN" data-listing-reading-time-sort="8" data-listing-word-count-sort="1553">
 <a href="./blog/HW3/index.html" class="quarto-grid-link">
 <div class="quarto-grid-item card h-100 card-left">
 <p class="card-img-top"><img src="blog/HW3/index_files/figure-html/cell-4-output-1.png" style="height: 150px;"  class="thumbnail-image card-img"/></p>
